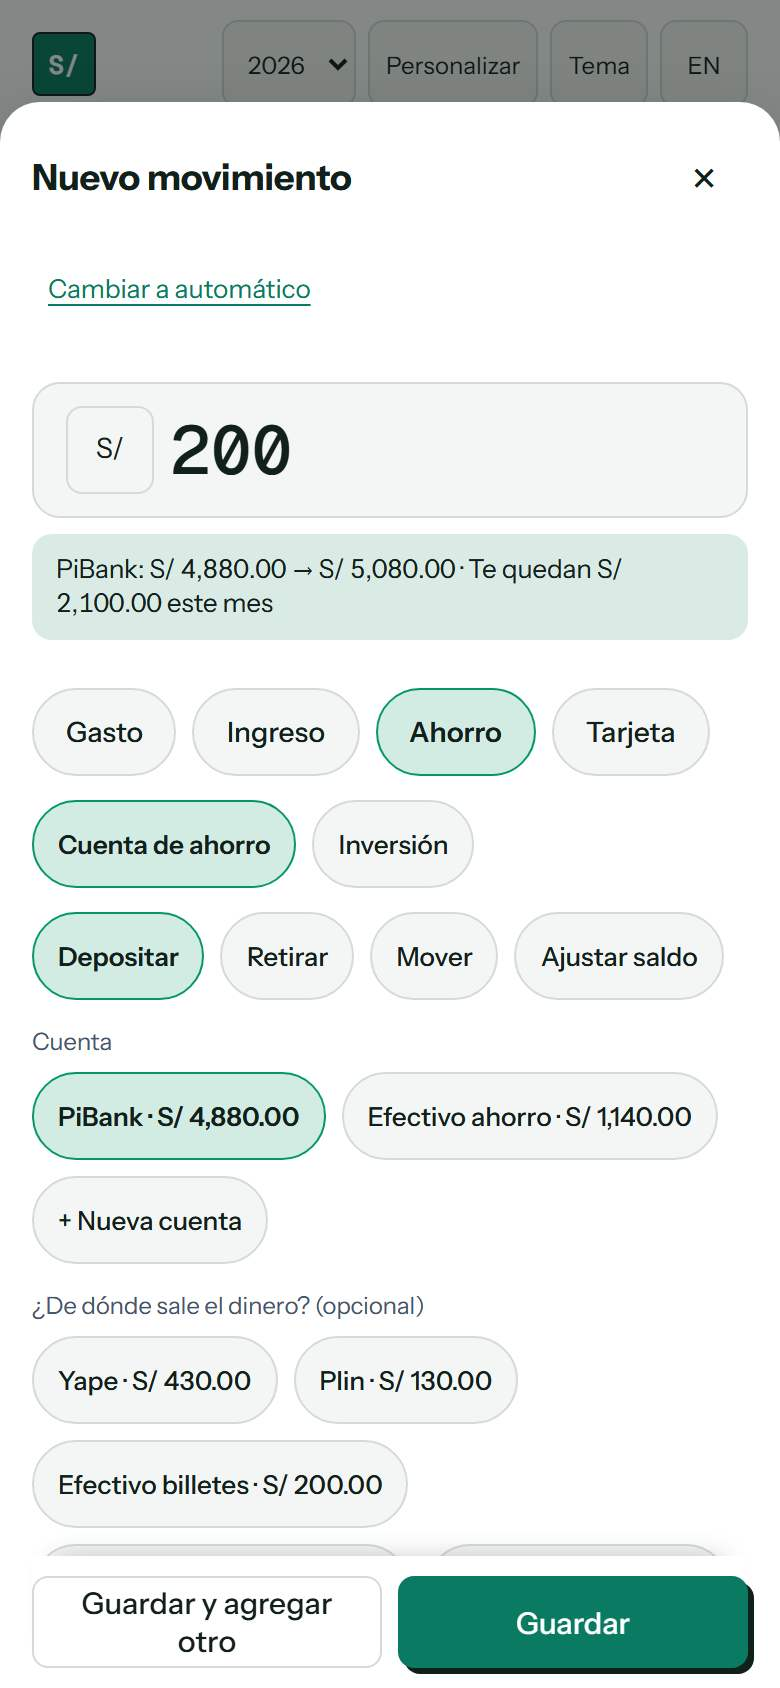
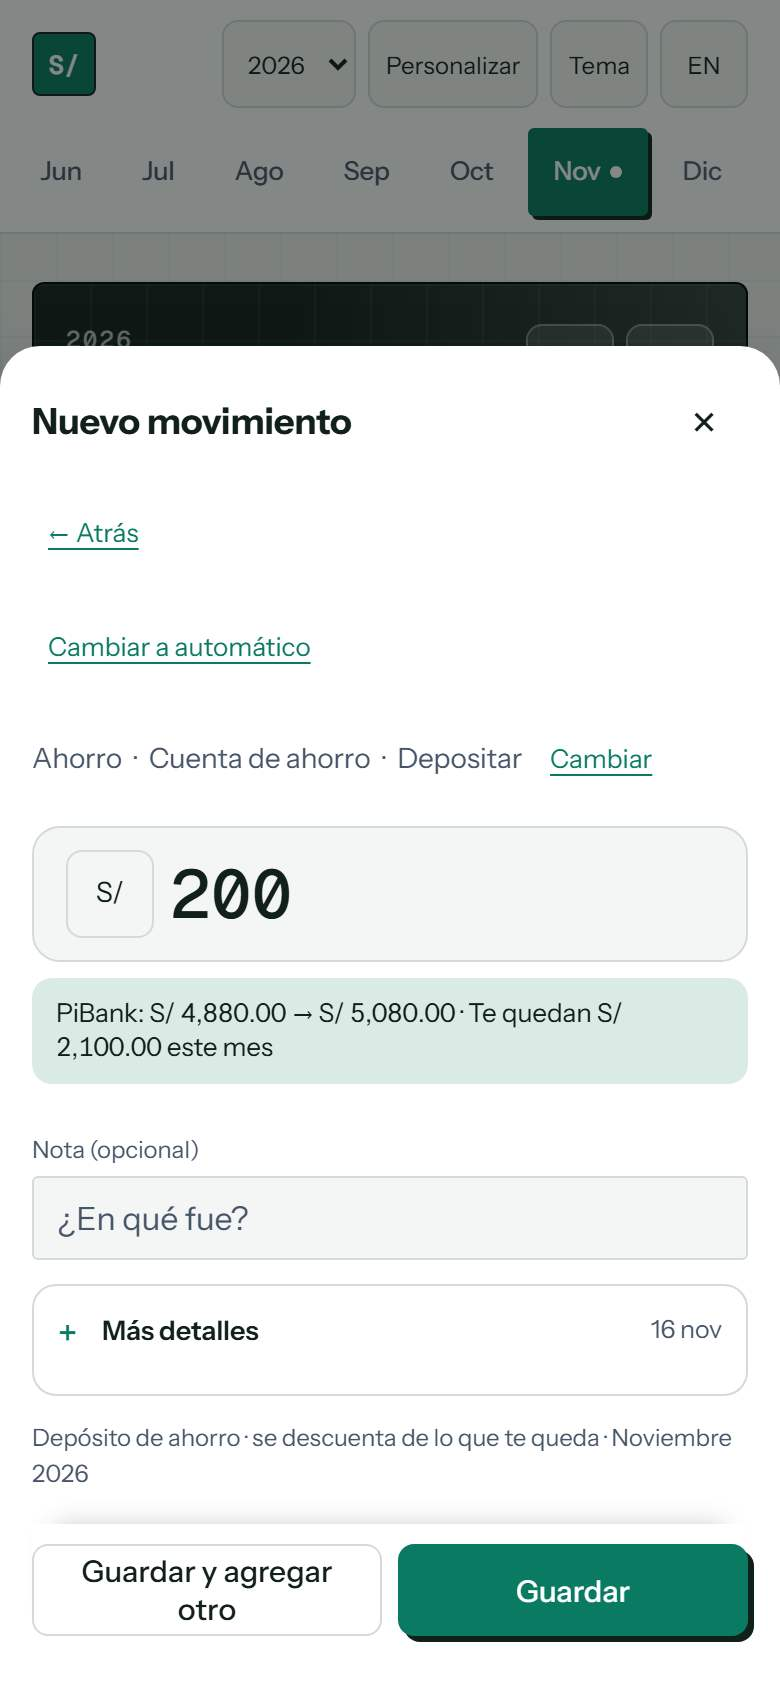
Landing y documentación al día: registro Manual/Automático, atajos y «Cotidiano»
- Landing: sección de registro, guía de uso (página y pestañas) y dos preguntas nuevas; capturas regeneradas con el flujo real; CACHE del service worker a v7.
- README, dev/README (pruebas t89 y t90) y docs/DECISIONS (ADR-006 a ADR-008).
- CLAUDE.md: siguientes pasos del registro.

diff --git a/inicio/index.html b/inicio/index.html
@@ -312,10 +312,10 @@ h1,h2,h3{letter-spacing:-.035em}
         <div class="ft">
           <div class="kicker">Registro en segundos</div>
           <h3>Anota mientras pagas</h3>
-          <p>Toca <kbd>+</kbd>, escribe el monto y elige de dónde salió. Se descuenta solo de Yape, Plin o tu efectivo.</p>
-          <ul><li>Escribe «almuerzo 25 yape» y listo</li><li>Gastos cotidianos separados de los fijos</li><li>Gastos en dólares con el tipo de cambio del mes</li></ul>
+          <p>Toca <kbd>+</kbd> y elige cómo registrar: <b>Automático</b> (escribes una frase y la app la llena) o <b>Manual</b> (te va preguntando paso a paso). Se descuenta solo de Yape, Plin o tu efectivo.</p>
+          <ul><li>Escribe «almuerzo 25 yape» y confirma</li><li>Atajos de un toque para tus gastos de siempre</li><li>Gastos cotidianos separados de los fijos</li><li>Gastos en dólares con el tipo de cambio del mes</li></ul>
         </div>
-        <div class="phone"><img src="img/registrar.jpg" width="390" height="844" alt="Formulario para registrar un gasto cotidiano de 12.50 soles pagado con Yape" loading="lazy"></div>
+        <div class="phone"><img src="img/registrar.jpg" width="390" height="844" alt="Tarjeta de confirmación al escribir «almuerzo 25 yape»: 25 soles, gasto cotidiano, sale de Yape" loading="lazy"></div>
       </div>
       <div class="fr">
         <div class="ft">
@@ -419,13 +419,13 @@ h1,h2,h3{letter-spacing:-.035em}
         <h3 id="tt">Registrar un gasto</h3>
         <div class="dur" id="td">Toma 10 segundos</div>
         <ol id="ts">
-          <li><span>Toca el botón <kbd>+</kbd> de abajo a la derecha y elige <b>Manual</b> (llenas el formulario) o <b>Automático</b> (escribes una frase).</span></li>
-          <li><span>En Manual, elige el tipo: <b>Cotidiano</b> para gastos chicos del día, <b>Gasto fijo</b> para alquiler, servicios o estudios.</span></li>
+          <li><span>Toca el botón <kbd>+</kbd> de abajo a la derecha y elige <b>Manual</b> (la app te pregunta paso a paso) o <b>Automático</b> (escribes una frase).</span></li>
+          <li><span>En Manual, elige qué movimiento es y su tipo: <b>Fijo</b> para alquiler, servicios o estudios, o <b>Cotidiano</b> para gastos chicos del día.</span></li>
+          <li><span>Elige de dónde sale: Yape, Plin o efectivo. Se descuenta solo.</span></li>
           <li><span>Escribe el monto y qué fue, por ejemplo «Menú del día».</span></li>
-          <li><span>En «¿De dónde sale este gasto?» elige Yape, Plin o efectivo. Se descuenta solo.</span></li>
           <li><span>Toca <b>Guardar</b>. Si te equivocaste, toca <b>Deshacer</b> en el aviso.</span></li>
         </ol>
-        <p class="tip" id="tx">Atajo: elige <b>Automático</b>, escribe <kbd>almuerzo 25 yape</kbd> y la app llena todo por ti.</p>
+        <p class="tip" id="tx">Atajo: elige <b>Automático</b>, escribe <kbd>almuerzo 25 yape</kbd> y confirma. Si marcas «Repetir cada mes» en «Más detalles», ese gasto queda como atajo de un toque.</p>
       </div>
       <div class="phone"><img id="ti" src="img/registrar.jpg" width="390" height="844" alt="Formulario para registrar un gasto" loading="lazy"></div>
     </div>
@@ -441,6 +441,8 @@ h1,h2,h3{letter-spacing:-.035em}
     <div class="faq">
       <details><summary>¿Tengo que conectar mi cuenta del banco?</summary><p>No. Tú registras tus movimientos y la app los ordena. Nadie entra a tu banca por internet ni te pedimos tus claves.</p></details>
       <details><summary>¿Mis datos están seguros?</summary><p>Se guardan en una base de datos privada protegida con tu inicio de sesión, y nadie más puede verlos desde la app. No los vendemos ni los compartimos. Además, cada día se guarda una versión durante 30 días y puedes descargar una copia completa cuando quieras.</p></details>
+      <details><summary>¿Qué diferencia hay entre Manual y Automático?</summary><p>En Manual la app te pregunta paso a paso: qué movimiento es, su tipo y de dónde sale, y al final escribes el monto. En Automático escribes una sola frase, como «almuerzo 25 yape», y la app la llena; tú solo confirmas.</p></details>
+      <details><summary>¿Puedo dictar en vez de escribir?</summary><p>Sí. En el modo Automático puedes usar el micrófono del teclado de tu celular para decir «almuerzo 25 yape» y luego confirmar.</p></details>
       <details><summary>¿Funciona sin internet?</summary><p>Sí. Lo que registras sin señal queda guardado en tu celular y se sube a tu cuenta cuando vuelve la conexión.</p></details>
       <details><summary>¿Me sirve el reporte para presentarlo en un banco?</summary><p>El reporte ordena tus ingresos, gastos, ahorros y deudas como un estado de cuenta, y cualquier persona lo entiende. Como lo armas con tus propios registros, no reemplaza los documentos oficiales que pide un banco, como tus boletas o estados de cuenta.</p></details>
       <details><summary>¿Puedo usarla en el celular y en la computadora?</summary><p>Sí. Funciona en el navegador de cualquier dispositivo, y en el celular puedes agregarla a tu pantalla de inicio como una app.</p></details>
@@ -501,7 +503,7 @@ h1,h2,h3{letter-spacing:-.035em}
   $('pa').addEventListener('click',()=>setP(true));$('pm').addEventListener('click',()=>setP(false));
   /* Tutoriales */
   const T={
-    gasto:{t:'Registrar un gasto',d:'Toma 10 segundos',img:'registrar',alt:'Formulario para registrar un gasto',s:['Toca el botón <kbd>+</kbd> de la barra de abajo (en computadora, <b>Registrar</b>) y elige <b>Manual</b> o <b>Automático</b>.','En Manual, deja <b>Gasto</b> y elige <b>Cotidiano</b> para gastos chicos del día o <b>Fijo</b> para alquiler, servicios o estudios.','Escribe el monto y qué fue, por ejemplo «Menú del día».','En «¿De dónde sale este gasto?» elige Yape, Plin o efectivo. Se descuenta solo.','Toca <b>Guardar</b>. Si te equivocaste, toca <b>Deshacer</b> en el aviso (dura 10 segundos).'],x:'Atajo: elige <b>Automático</b>, escribe <kbd>almuerzo 25 yape</kbd> y la app llena todo por ti.'},
+    gasto:{t:'Registrar un gasto',d:'Toma 10 segundos',img:'registrar',alt:'Formulario para registrar un gasto',s:['Toca el botón <kbd>+</kbd> de la barra de abajo (en computadora, <b>Registrar</b>) y elige <b>Manual</b> (la app te pregunta paso a paso) o <b>Automático</b> (escribes una frase).','En Manual, elige <b>Gasto</b> y luego <b>Fijo</b> para alquiler, servicios o estudios, o <b>Cotidiano</b> para gastos chicos del día.','Elige de dónde sale: Yape, Plin o efectivo. Se descuenta solo.','Escribe el monto y qué fue, por ejemplo «Menú del día».','Toca <b>Guardar</b>. Si te equivocaste, toca <b>Deshacer</b> en el aviso (dura 10 segundos).'],x:'Atajo: elige <b>Automático</b>, escribe <kbd>almuerzo 25 yape</kbd> y confirma. Si marcas «Repetir cada mes» en «Más detalles», ese gasto queda como atajo de un toque.'},
     tarjeta:{t:'Tarjetas de crédito',d:'Toma 20 segundos',img:'tarjeta',alt:'Formulario de compra con tarjeta de crédito',s:['Toca <kbd>+</kbd>, elige <b>Tarjeta</b> y luego <b>Compra</b>.','Elige la tarjeta, escribe el monto y qué compraste.','Toca <b>Guardar</b>: la compra se suma a la deuda de esa tarjeta, no a tus gastos del mes.','Cuando pagues la tarjeta, toca <b>Pagar</b> en esa tarjeta (o <kbd>+</kbd>, <b>Tarjeta</b>, <b>Pago</b>) y elige de qué cuenta sale el dinero.','El pago baja la deuda y cuenta como gasto del mes. Así no cuentas lo mismo dos veces.'],x:'Pon la línea de crédito en la misma tarjeta, en «Saldo anterior, línea y día de pago», y verás cuánto te queda disponible.'},
     ahorro:{t:'Ahorros con TREA',d:'Toma 30 segundos',img:'ahorros',alt:'Cuentas de ahorro con su TREA y ganancia estimada',s:['Toca <kbd>+</kbd>, elige <b>Ahorro</b> y luego <b>Depositar</b>.','Elige la cuenta, escribe el monto y, si quieres, de dónde sale el dinero. La vista previa te muestra cómo quedan los saldos.','Para poner la tasa, en la tarjeta de la cuenta toca «Agregar TREA o TEA».','Elige TREA o TEA, escribe la tasa anual y toca <b>Guardar</b>.','La cuenta muestra cuánto ganarías al mes y al año con ese saldo.'],x:'Usa la TREA cuando el banco te la dé: ya incluye comisiones y es la cifra más real.'},
     cuadrar:{t:'Cuadrar cuentas',d:'Toma 1 minuto',img:'cuadrar',alt:'Ventana para cuadrar cuentas con el saldo real',s:['Entra al mes, toca <b>Cierre de mes</b> y luego <b>Cuadrar cuentas</b>.','Abre la app de tu banco o tu billetera y mira el saldo real de cada cuenta.','Escríbelo al lado de cada una. La app te dice cuánto falta o sobra.','Toca <b>Aplicar ajustes</b> para dejar todo igual que en la realidad.'],x:'Si te falta dinero casi siempre en la misma cuenta, ahí se te escapa algún gasto hormiga.'},

diff --git a/dev/landing-shots.js b/dev/landing-shots.js
@@ -24,14 +24,16 @@ const hist=[[0,404],[1,401],[2,398],[5,391]].map(([n,f])=>({dia:dia(n),tipo:'dia
 
   await go('#resumen');await shot('resumen');
   await go('#noviembre');await shot('mes');
-  // registrar un gasto cotidiano
-  await abrir();await p.click('#stype [data-g="gasto"]');await p.click('#ssub [data-t="hor"]');await p.fill('#sa','12.50');await p.fill('#sd','Menú del día');await p.click('#ssrc [data-src="liq:0"]');await p.locator('#sd').blur();await shot('registrar');await cerrar();
-  // compra con tarjeta
-  await abrir();await p.click('#stype [data-g="tarjeta"]');await p.click('#ssub [data-t="compra"]');await p.click('#sbank [data-b="bcp"]');await p.fill('#sa','89.90');await p.fill('#sd','Zapatillas');await p.locator('#sd').blur();await shot('tarjeta');await cerrar();
-  // depósito a ahorro
-  await abrir();await p.click('#stype [data-g="ahorro"]');await p.click('#ssub [data-t="aho"]');
-  {const c=p.locator('#sheet [role=radio]').filter({hasText:'PiBank'}).first();if(await c.count())await c.click();}
-  await p.fill('#sa','200');await p.locator('#sa').blur();await shot('ahorro-registro');await cerrar();
+  const pausa=()=>p.waitForTimeout(260);
+  const ask=async()=>{await p.click('#fab');await p.waitForSelector('#sheet');await pausa();};
+  // registrar en modo Automático: la frase y su tarjeta de confirmación
+  await ask();await p.click('[data-mode="auto"]');await pausa();await p.fill('#smsg','almuerzo 25 yape');await pausa();await shot('registrar');await cerrar();
+  // compra con tarjeta (Manual, paso a paso)
+  await ask();await p.click('[data-mode="manual"]');await pausa();await p.click('#stype [data-g="tarjeta"]');await pausa();await p.click('#ssub [data-t="compra"]');await pausa();await p.click('#sbank [data-b="bcp"]');await pausa();await p.fill('#sa','89.90');await p.fill('#sd','Zapatillas');await p.locator('#sd').blur();await shot('tarjeta');await cerrar();
+  // depósito a ahorro (Manual, paso a paso)
+  await ask();await p.click('[data-mode="manual"]');await pausa();await p.click('#stype [data-g="ahorro"]');await pausa();await p.click('#ssub [data-t="aho"]');await pausa();await p.click('#sax [data-ax="dep"]');await pausa();
+  {const c=p.locator('#sfrom [role=radio]').filter({hasText:'PiBank'}).first();if(await c.count())await c.click();else await p.click('#sfrom [data-from^="aho:"]');}
+  await pausa();await p.click('#ssrc [data-src="none"]');await pausa();await p.fill('#sa','200');await p.locator('#sa').blur();await shot('ahorro-registro');await cerrar();
   // cuentas de ahorro con su tasa
   await p.evaluate(()=>{const c=document.querySelector('.bcard[data-cid="aho"]'),h=document.getElementById('hdr').offsetHeight;scrollTo(0,c.getBoundingClientRect().top+scrollY-h-10);});await shot('ahorros');
   await p.evaluate(()=>scrollTo(0,0));

diff --git a/sw.js b/sw.js
@@ -1,6 +1,6 @@
 /* Service worker: la app siempre trae lo último de la red; el caché es solo para
    abrir sin conexión (muestra tus últimos datos locales). */
-const CACHE = 'mis-finanzas-v6';
+const CACHE = 'mis-finanzas-v7';
 /* Librerías pesadas de reportes: no se precargan; se guardan la primera vez que se usan. */
 const RUNTIME = [
   'https://cdn.jsdelivr.net/npm/exceljs@4.4.0/dist/exceljs.min.js',

diff --git a/docs/DECISIONS.md b/docs/DECISIONS.md
@@ -88,3 +88,33 @@ después.
 
 **Consecuencias.** Integridad de datos y confianza: el usuario puede corregirse sin
 miedo. A cambio, más lógica de reconciliación y un campo extra por movimiento.
+
+---
+
+## ADR-006 · Registro en dos modos: Manual por pasos o Automático (nov. 2026)
+
+**Contexto.** En la beta, el formulario de registro abrumaba: muchos botones y grupos de opciones a la vez. A la vez, la gente que registra con prisa necesita una vía rápida (y a futuro, por voz).
+
+**Decisión.** Al tocar «+» (y en cada «+ Agregar…») aparece primero una ventana con dos opciones: **Automático** (una frase como «almuerzo 25 yape», con una tarjeta de confirmación antes de guardar) y **Manual** (un asistente por pasos: una ventana por decisión — movimiento → tipo → tarjeta/cuenta → de dónde sale → monto y concepto). Los botones «+ Agregar …» ya conocen el tipo y se lo saltan. Editar y las acciones de ahorro/tarjeta mantienen el formulario completo.
+
+**Alternativas consideradas.** Un solo formulario con más secciones plegadas (menos pasos, pero seguía abrumando); registrar solo por texto (más rápido, pero menos guiado para quien empieza).
+
+**Consecuencias.** Más toques en Manual (4 o 5), a cambio de claridad; lo rápido queda en Automático y en los atajos. Si Automático no sabe la cuenta, no guarda a ciegas: pasa al formulario completo y la pide.
+
+---
+
+## ADR-007 · «Hormiga» pasa a llamarse «Cotidiano» (nov. 2026)
+
+**Decisión.** La sección `hor` se muestra como **Cotidiano** (gastos del día a día) junto a **Fijo**; en el formulario, «Fijo» va primero. El código y los datos siguen usando `hor`, así que no hay migración. En la landing se conserva «gasto hormiga» solo en la calculadora, porque es el término que la gente conoce y busca.
+
+**Consecuencias.** Textos, gráficos, alertas e inglés cambian; las capturas de la landing se regeneran. La clase (fijo/cotidiano) se elige sola según el historial del concepto, y se puede cambiar a mano.
+
+---
+
+## ADR-008 · Los atajos de un toque salen solo de lo que la persona configura (nov. 2026)
+
+**Contexto.** Una primera versión sugería atajos desde el historial (los conceptos más usados); llenaba la pantalla de botones que nadie había pedido.
+
+**Decisión.** Un atajo aparece únicamente si es un gasto **recurrente** que la persona configuró en Ajustes o creó marcando «Repetir cada mes» en «Más detalles». Un toque lo registra (con «Deshacer»). Sin recurrentes no hay atajos.
+
+**Consecuencias.** El formulario sale limpio por defecto. No se añadió ningún campo nuevo a los datos: se reutiliza la lista de recurrentes (`cfg.rec`).

diff --git a/CLAUDE.md b/CLAUDE.md
@@ -90,7 +90,8 @@ Ver `dev/README.md`. Resumen: `cd dev && npm install && npx playwright install c
 8. ~~Contraste mínimo~~ hecho: BCP, «−33%» y los días del calendario pasan 4.5:1 en los 3 estilos. El escáner ya lee `color-mix`; si salta un aviso nuevo de contraste, es real.
 9. ~~README y docs~~ hecho (nov. 2026): el README describe MisSoles; los documentos de la primera etapa llevan una nota de «histórico».
 10. Textos legales y revisión con abogado, cuando haya ingresos.
-11. **Visión a futuro (decidida nov. 2026): una sola app** que mezcle MisSoles con CoreFlow (`C:\proyectos\P.CoreFlow\coreflow`: Agenda, Tareas, asistente con IA, resúmenes). Va **después de la beta**, no antes. Idea de base: MisSoles sigue siendo el motor de dinero (saldos reales por cuenta); se le añaden Agenda con gasto previsto vs. saldos, Tareas, asistente con Claude (function calling; la IA nunca calcula dinero) y resumen diario. Se reutilizan las ideas de CoreFlow, no su código Django. Antes de construir, decidir con el dueño la arquitectura (ver la conversación del 11 nov. 2026).
+11. **Registro (siguientes pasos, nov. 2026):** «Por pagar este mes» para los gastos fijos (aparecen solos cada mes y se marcan con un toque); Automático entiende frases habladas («veinticinco soles», «ayer») y luego un botón de micrófono (Web Speech API, ver conversación del 15 nov. 2026; el audio lo procesa el navegador y habría que decirlo en la política de privacidad); separar «Antojo» de «Cotidiano» con el «¿Valió la pena?». Antes de cada paso, preguntar a los testers qué usan más (Manual, Automático o atajos).
+12. **Visión a futuro (decidida nov. 2026): una sola app** que mezcle MisSoles con CoreFlow (`C:\proyectos\P.CoreFlow\coreflow`: Agenda, Tareas, asistente con IA, resúmenes). Va **después de la beta**, no antes. Idea de base: MisSoles sigue siendo el motor de dinero (saldos reales por cuenta); se le añaden Agenda con gasto previsto vs. saldos, Tareas, asistente con Claude (function calling; la IA nunca calcula dinero) y resumen diario. Se reutilizan las ideas de CoreFlow, no su código Django. Antes de construir, decidir con el dueño la arquitectura (ver la conversación del 11 nov. 2026).
 
 ## Decisiones ya tomadas (no reabrir sin motivo)
 - «Gasto por día» cuenta solo gastos fijos y cotidianos (dinero líquido); los consumos de tarjeta no entran, a propósito. Si no hay gastos, el mensaje lo explica.

diff --git a/dev/README.md b/dev/README.md
@@ -14,7 +14,7 @@ npx playwright install chromium
 - `npm run wrap` — genera `wrap-repo.html` (el `../index.html` dentro de un esqueleto mínimo). **Hay que volver a correrlo después de cada cambio en `index.html`**; `npm test` y `npm run scan` ya lo hacen.
 - `npm test` — regresión completa (~10 min): t61 (74 comprobaciones: flujos, móvil, desbordes), t73 (acceso, recuperar contraseña, borrar cuenta, onboarding), t74 (sugerencias de metas), t82 (idioma ES/EN), t83 (quitar cuentas de ahorro), t84 (abrir en el mes actual), t85 (equipo compartido: los datos del navegador no pasan a otra cuenta y se borran al cerrar sesión), t86 (integridad de librerías: una alterada no se ejecuta; PDF y Excel siguen funcionando — **necesita internet**, baja ExcelJS y jsPDF reales).
 - Las librerías del CDN llevan `integrity` (en los `<script>` y en `SRI` dentro de `index.html`). Si cambias de versión, recalcula la huella: `curl -s URL | openssl dgst -sha384 -binary | openssl base64 -A`. Al simular un script en una prueba, responde con `access-control-allow-origin: *` o el navegador lo rechaza.
-- Además corren `t87` (datos dañados, montos, almacenamiento lleno y sincronización con un Supabase simulado) y `t88` (accesibilidad e inglés).
+- Además corren `t87` (datos dañados, montos, almacenamiento lleno y sincronización con un Supabase simulado), `t88` (accesibilidad e inglés), `t89` (atajos de un toque, solo desde recurrentes) y `t90` (ventana Manual/Automático, asistente por pasos y el nombre «Cotidiano»). Los registros abren primero la ventana de elección: en las pruebas, el ayudante `man(p, 'auto' | 'wizard')` elige el modo (sin parámetro entra al formulario completo por «Cambiar a manual»).
 - `npm run capturas` — regenera las capturas de celular de la landing (`inicio/img/*.jpg`) y `og.jpg` con los datos de ejemplo (`landing-shots.js`, plantilla `og.html`). Si cambian, sube también `CACHE` en `sw.js`.
 - `npm run verificar` — `npm test` + `npm run scan` y, si todo pasa, guarda el sello `dev/.sello-pruebas` (no se sube). El gancho `pre-push` no deja subir cambios de la app sin un sello de esa versión exacta. Todas las pruebas salen con código 1 si alguna comprobación falla; el escáner, solo si hay errores de JS.
 - `npm run regla` — revisa todo el repo contra la regla de oro (claves secretas, archivos de datos y tu lista privada `~/.cuadra/vigilar.txt`). Ver `regla-de-oro.js`.

diff --git a/README.md b/README.md
@@ -6,7 +6,9 @@ App web de finanzas personales **en soles**, pensada para cómo se paga en el Pe
 - **App:** https://zzorgh.github.io/mis-finanzas/ (necesitas una invitación; anótate en la lista de espera desde la landing)
 
 ## Qué hace
-- **Registro en segundos:** un botón «+» que te deja elegir entre **Manual** (formulario) y **Automático** (una frase); o escribe «almuerzo 25 yape» y la app llena el resto. Entiende montos como `1,200` o `S/ 12.50`.
+- **Registro en segundos:** un botón «+» que te deja elegir entre **Automático** (escribes «almuerzo 25 yape» y confirmas) y **Manual** (la app te pregunta paso a paso: movimiento, tipo, de dónde sale y monto). Entiende montos como `1,200` o `S/ 12.50`.
+- **Atajos de un toque** para tus gastos de siempre: son tus gastos recurrentes, o los que marcas con «Repetir cada mes».
+- **Gastos fijos y cotidianos** separados (antes «hormiga»), cada uno con su alerta y sus gráficos.
 - **Tu dinero real:** cada gasto se descuenta de la cuenta de donde salió (Yape, Plin, efectivo), y «Cuadrar cuentas» lo iguala con el saldo de tu banco.
 - **Tarjetas de crédito como deuda**, no como gasto doble: línea, deuda, disponible y día de pago.
 - **Ahorros** por cuenta, con TREA o TEA y lo que ganarías al mes y al año; metas y fondo de emergencia.
